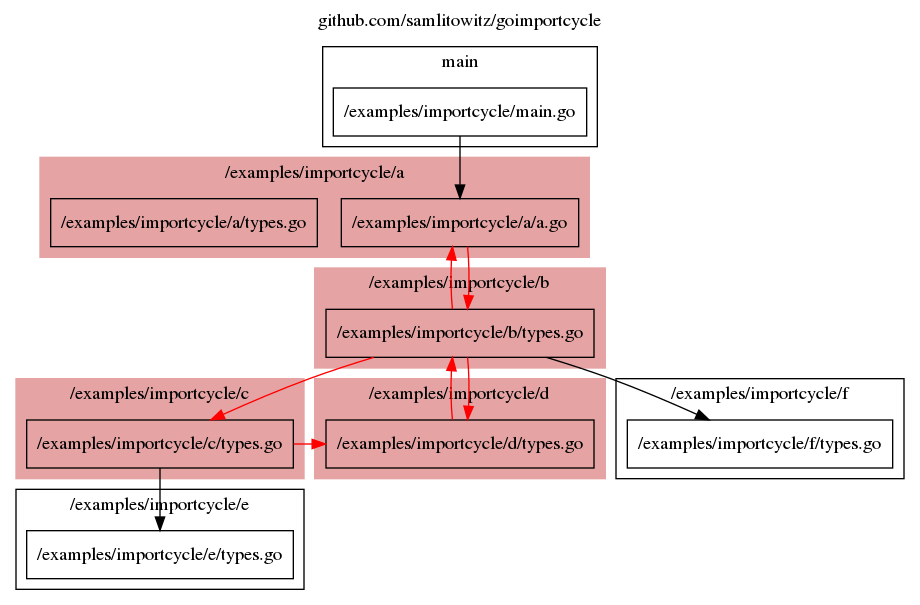
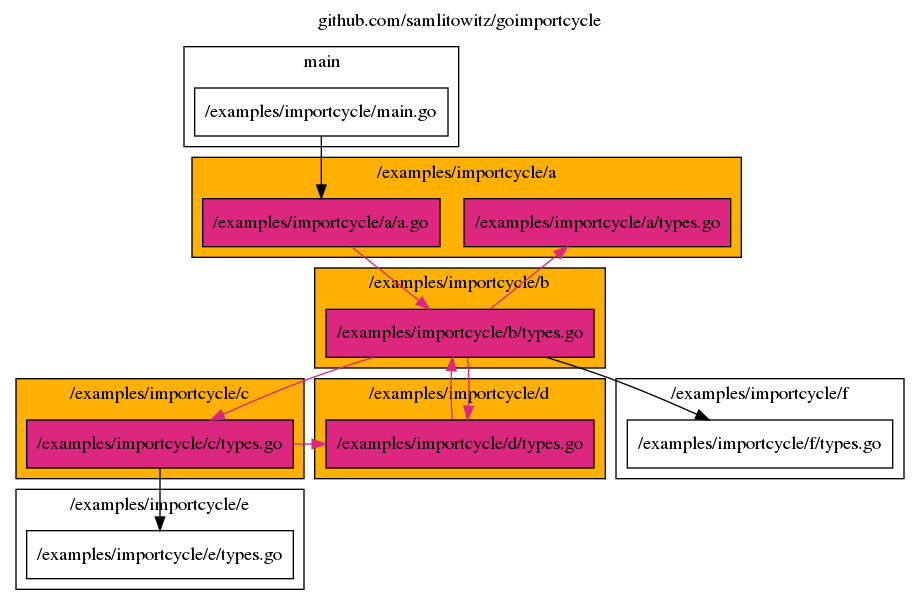
Update color scheme
It ain't beautiful but hopefully it helps.

Changed region(s): [[0.0, 0.0893, 0.8217, 0.8033], [0.5174, 0.0595, 0.6391, 0.0893], [0.213, 0.0595, 0.3348, 0.0893]]

diff --git a/internal/file/dot.go b/internal/file/dot.go
@@ -3,6 +3,7 @@ package file
 import (
 	"bytes"
 	"fmt"
+	"github.com/samlitowitz/goimportcycle/internal"
 	"github.com/samlitowitz/goimportcycle/internal/ast"
 	"gonum.org/v1/gonum/graph"
 	"gonum.org/v1/gonum/graph/simple"
@@ -10,7 +11,7 @@ import (
 	"strings"
 )
 
-func Marshal(modulePath string, pkgs []*ast.Package) ([]byte, error) {
+func Marshal(cfg *internal.Config, modulePath string, pkgs []*ast.Package) ([]byte, error) {
 	buf := &bytes.Buffer{}
 	buf.WriteString("digraph {\n")
 	buf.WriteString("\tlabelloc=\"t\";\n")
@@ -70,6 +71,18 @@ func Marshal(modulePath string, pkgs []*ast.Package) ([]byte, error) {
 				}
 				curEdge.SetInCycle(true)
 				fileGraph.SetEdge(curEdge)
+
+				// update file graph nodes with inCycle
+				fromFileNode := fileGraph.Node(fromFileNodeID).(*fileNode)
+				if fromFileNode == nil {
+					continue
+				}
+				toFileNode := fileGraph.Node(toFileNodeID).(*fileNode)
+				if toFileNode == nil {
+					continue
+				}
+				fromFileNode.SetInCycle(true)
+				toFileNode.SetInCycle(true)
 			}
 		}
 	}
@@ -90,10 +103,12 @@ func Marshal(modulePath string, pkgs []*ast.Package) ([]byte, error) {
 
 		buf.WriteString(fmt.Sprintf("\tsubgraph cluster%d {\n", pkgNodeID))
 		buf.WriteString(fmt.Sprintf("\t\tlabel=\"%s\";\n", packageLabel(modulePath, pkgNode.Package())))
+		buf.WriteString("\t\tstyle=\"filled\";\n")
+		pkgFillColor := cfg.PackageFill.Hex()
 		if pkgNode.GetInCycle() {
-			buf.WriteString("\t\tstyle=\"filled\";\n")
-			buf.WriteString("\t\tcolor=\"#e5a3a3\";\n")
+			pkgFillColor = cfg.CyclePackageFill.Hex()
 		}
+		buf.WriteString(fmt.Sprintf("\t\tfillcolor=\"%s\";\n", pkgFillColor))
 
 		for fileNodeID := range fileNodeIDs {
 			// create nodes
@@ -101,7 +116,18 @@ func Marshal(modulePath string, pkgs []*ast.Package) ([]byte, error) {
 			if fileNode == nil {
 				continue
 			}
-			buf.WriteString(fmt.Sprintf("\t\tn%d [label=\"%s\"];\n", fileNode.ID(), fileLabel(modulePath, fileNode.File())))
+			fileFillColor := cfg.FileFill.Hex()
+			if fileNode.GetInCycle() {
+				fileFillColor = cfg.CycleFileFill.Hex()
+			}
+			buf.WriteString(
+				fmt.Sprintf(
+					"\t\tn%d [label=\"%s\", style=\"filled\", fillcolor=\"%s\"];\n",
+					fileNode.ID(),
+					fileLabel(modulePath, fileNode.File()),
+					fileFillColor,
+				),
+			)
 			exports := fileNode.File().Exports
 			if len(exports) == 0 {
 				continue
@@ -120,11 +146,18 @@ func Marshal(modulePath string, pkgs []*ast.Package) ([]byte, error) {
 	fileEdges := fileGraph.Edges()
 	for fileEdges.Next() != false {
 		curEdge := fileEdges.Edge().(*fileEdge)
-		attrs := ""
+		edgeColor := cfg.Line.Hex()
 		if curEdge.GetInCycle() {
-			attrs = "[color=\"red\"]"
+			edgeColor = cfg.CycleLine.Hex()
 		}
-		buf.WriteString(fmt.Sprintf("\tn%d -> n%d %s;\n", curEdge.From().ID(), curEdge.To().ID(), attrs))
+		buf.WriteString(
+			fmt.Sprintf(
+				"\tn%d -> n%d [color=\"%s\"];\n",
+				curEdge.From().ID(),
+				curEdge.To().ID(),
+				edgeColor,
+			),
+		)
 		references := curEdge.References()
 		if len(references) == 0 {
 			continue
@@ -213,8 +246,9 @@ func (e *fileEdge) SetInCycle(v bool) {
 }
 
 type fileNode struct {
-	id   int64
-	file *ast.File
+	id      int64
+	file    *ast.File
+	inCycle bool
 }
 
 func (n *fileNode) ID() int64 {
@@ -223,6 +257,14 @@ func (n *fileNode) ID() int64 {
 
 func (n *fileNode) File() *ast.File {
 	return n.file
+}
+
+func (n *fileNode) GetInCycle() bool {
+	return n.inCycle
+}
+
+func (n *fileNode) SetInCycle(v bool) {
+	n.inCycle = v
 }
 
 type builder struct {

diff --git a/internal/pkg/dot.go b/internal/pkg/dot.go
@@ -3,6 +3,7 @@ package pkg
 import (
 	"bytes"
 	"fmt"
+	"github.com/samlitowitz/goimportcycle/internal"
 	"github.com/samlitowitz/goimportcycle/internal/ast"
 	"gonum.org/v1/gonum/graph"
 	"gonum.org/v1/gonum/graph/simple"
@@ -10,7 +11,7 @@ import (
 	"strings"
 )
 
-func Marshal(modulePath string, pkgs []*ast.Package) ([]byte, error) {
+func Marshal(cfg *internal.Config, modulePath string, pkgs []*ast.Package) ([]byte, error) {
 	buf := &bytes.Buffer{}
 	buf.WriteString("digraph {\n")
 	buf.WriteString("\tlabelloc=\"t\";\n")
@@ -20,15 +21,6 @@ func Marshal(modulePath string, pkgs []*ast.Package) ([]byte, error) {
 
 	b := NewBuilder()
 	b.Build(pkgs)
-
-	nodes := b.Nodes()
-	for nodes.Next() != false {
-		curNode, ok := nodes.Node().(*node)
-		if !ok {
-			continue
-		}
-		buf.WriteString(fmt.Sprintf("\tn%d [label=\"%s\"];\n", curNode.ID(), packageLabel(modulePath, curNode.Package())))
-	}
 
 	g := b.Graph()
 	cycles := topo.DirectedCyclesIn(g)
@@ -40,18 +32,45 @@ func Marshal(modulePath string, pkgs []*ast.Package) ([]byte, error) {
 			}
 			curEdge.SetInCycle(true)
 			g.SetEdge(curEdge)
+
+			// update file graph nodes with inCycle
+			fromFileNode := g.Node(cycle[i].ID()).(*node)
+			if fromFileNode == nil {
+				continue
+			}
+			toFileNode := g.Node(cycle[i+1].ID()).(*node)
+			if toFileNode == nil {
+				continue
+			}
+			fromFileNode.SetInCycle(true)
+			toFileNode.SetInCycle(true)
 		}
+	}
+
+	nodes := b.Nodes()
+	for nodes.Next() != false {
+		curNode, ok := nodes.Node().(*node)
+		if !ok {
+			continue
+		}
+		fillColor := cfg.PackageFill.Hex()
+		if curNode.GetInCycle() {
+			fillColor = cfg.CyclePackageFill.Hex()
+		}
+
+		buf.WriteString(fmt.Sprintf("\tn%d [label=\"%s\", style=\"filled\", fillcolor=\"%s\"];\n", curNode.ID(), packageLabel(modulePath, curNode.Package()), fillColor))
 	}
 
 	edges := b.Edges()
 	for edges.Next() != false {
 		curEdge := edges.Edge().(*edge)
-		attrs := ""
-		if curEdge.GetInCycle() {
-			attrs = "[color=\"red\"]"
-		}
-		buf.WriteString(fmt.Sprintf("\tn%d -> n%d %s;\n", curEdge.From().ID(), curEdge.To().ID(), attrs))
+		buf.WriteString(fmt.Sprintf("\tn%d -> n%d [color=\"%s\"];\n", curEdge.From().ID(), curEdge.To().ID(), cfg.Line.Hex()))
 	}
+
+	// create legend
+	// file in cycle
+	// pkg in cycle
+	// edge in cycle
 	buf.WriteString("}\n")
 
 	return buf.Bytes(), nil
@@ -87,8 +106,9 @@ func (e *edge) SetInCycle(v bool) {
 }
 
 type node struct {
-	id  int64
-	pkg *ast.Package
+	id      int64
+	pkg     *ast.Package
+	inCycle bool
 }
 
 func (n *node) ID() int64 {
@@ -97,6 +117,14 @@ func (n *node) ID() int64 {
 
 func (n *node) Package() *ast.Package {
 	return n.pkg
+}
+
+func (n *node) GetInCycle() bool {
+	return n.inCycle
+}
+
+func (n *node) SetInCycle(inCycle bool) {
+	n.inCycle = inCycle
 }
 
 type builder struct {

diff --git a/cmd/goimportcycle/main.go b/cmd/goimportcycle/main.go
@@ -2,6 +2,7 @@ package main
 
 import (
 	"flag"
+	"github.com/samlitowitz/goimportcycle/internal"
 	"github.com/samlitowitz/goimportcycle/internal/ast"
 	"github.com/samlitowitz/goimportcycle/internal/file"
 	"github.com/samlitowitz/goimportcycle/internal/pkg"
@@ -39,16 +40,17 @@ func main() {
 		log.Fatal(err)
 	}
 
+	cfg := internal.True
 	var output []byte
 
 	switch resolution {
 	case "file":
-		output, err = file.Marshal(modulePath, v.Packages())
+		output, err = file.Marshal(cfg, modulePath, v.Packages())
 		if err != nil {
 			log.Fatal(err)
 		}
 	case "package":
-		output, err = pkg.Marshal(modulePath, v.Packages())
+		output, err = pkg.Marshal(internal.True, modulePath, v.Packages())
 		if err != nil {
 			log.Fatal(err)
 		}

diff --git a/internal/config.go b/internal/config.go
@@ -1,0 +1,23 @@
+package internal
+
+import "image/color"
+
+var (
+	True = &Config{
+		Line:             Color{&color.RGBA{R: 0, G: 0, B: 0, A: 1}},
+		PackageFill:      Color{&color.RGBA{R: 255, G: 255, B: 255, A: 1}},
+		FileFill:         Color{&color.RGBA{R: 255, G: 255, B: 255, A: 1}},
+		CycleLine:        Color{&color.RGBA{R: 220, G: 38, B: 127, A: 1}},
+		CyclePackageFill: Color{&color.RGBA{R: 255, G: 176, B: 0, A: 1}},
+		CycleFileFill:    Color{&color.RGBA{R: 220, G: 38, B: 127, A: 1}},
+	}
+)
+
+type Config struct {
+	Line             Color
+	PackageFill      Color
+	FileFill         Color
+	CycleLine        Color
+	CyclePackageFill Color
+	CycleFileFill    Color
+}

diff --git a/internal/color.go b/internal/color.go
@@ -1,0 +1,14 @@
+package internal
+
+import (
+	"fmt"
+	"image/color"
+)
+
+type Color struct {
+	*color.RGBA
+}
+
+func (c Color) Hex() string {
+	return fmt.Sprintf("#%02x%02x%02x", c.R, c.G, c.B)
+}
